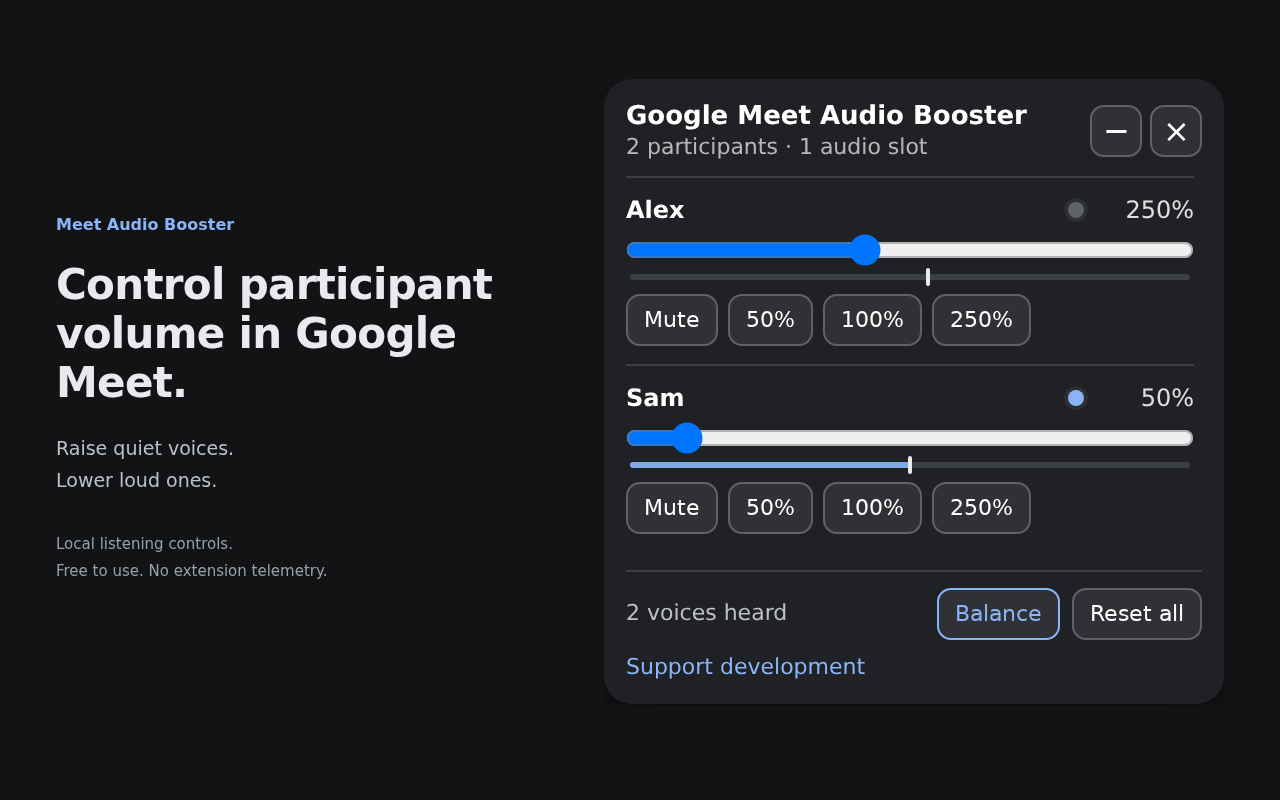
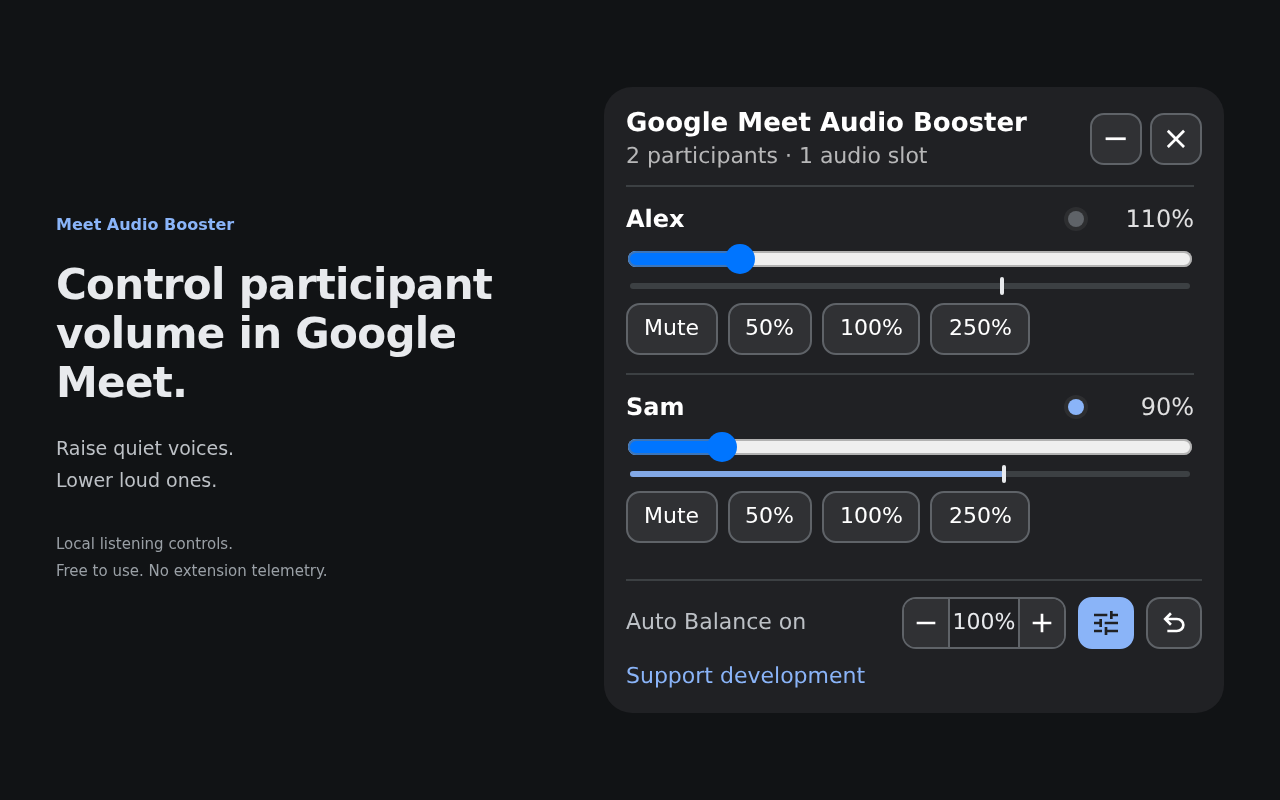
v2.5.1: multi-tab settings, accessible target control, screenshot (#34)
* fix: settings saved in another Meet tab are adopted instead of overwritten

Each tab saved its whole in-memory settings, so a later save in one tab undid
the Auto Balance choice, target, volumes or panel position saved in another.
Tabs now adopt the stored settings when another tab writes them (storage
event) and follow a changed target level. Version 2.5.1.

* fix: accessible target control, keep saved Auto when it never ran, new screenshot

- Target value is an aria-live region; − / + use aria-disabled at the limits
  so keyboard focus stays on them.
- A slider/preset/Reset only stores Auto Balance off if it was actually
  running in this tab (not when audio was unavailable and it never started).
- Tests for Reset persistence and the never-started case.
- README/store screenshot re-captured from the real panel code.

---------

diff --git a/src/ui/panel.js b/src/ui/panel.js
@@ -85,19 +85,24 @@ export function createPanelController(state, { participants, levels = () => null
       const target = state.settings.autoBalance.target
       const text = `${target}%`
       if (targetParts.value.textContent !== text) targetParts.value.textContent = text
-      targetParts.lower.disabled = target <= AUTO_TARGET_PERCENTS[0]
-      targetParts.raise.disabled = target >= AUTO_TARGET_PERCENTS.at(-1)
-      setStyle(targetParts.lower, 'opacity', targetParts.lower.disabled ? '0.4' : '1')
-      setStyle(targetParts.raise, 'opacity', targetParts.raise.disabled ? '0.4' : '1')
+      // aria-disabled (not disabled) keeps keyboard focus on the button at a limit.
+      for (const [button, atLimit] of [[targetParts.lower, target <= AUTO_TARGET_PERCENTS[0]], [targetParts.raise, target >= AUTO_TARGET_PERCENTS.at(-1)]]) {
+        button.setAttribute('aria-disabled', String(atLimit))
+        setStyle(button, 'opacity', atLimit ? '0.4' : '1')
+        setStyle(button, 'cursor', atLimit ? 'default' : 'pointer')
+      }
       setStyle(targetParts.group, 'opacity', auto.enabled ? '1' : '0.55')
     }
   }
   // persist=false when the page/controller shuts down: the user's choice stays.
   function stopAuto({ persist = true } = {}) {
+    // Only a user stopping an Auto Balance that was actually running stores
+    // off (e.g. not when audio was unavailable and it was never restored).
+    const wasRunning = auto.enabled
     auto.stop()
     state.autoBalanceEnabled = false
     state.autoBalanceReady = false
-    if (persist && state.settings.autoBalance.enabled) saveAuto({ enabled: false })
+    if (persist && wasRunning && state.settings.autoBalance.enabled) saveAuto({ enabled: false })
     updateBalanceButton()
     const status = document.getElementById(`${PANEL_ID}_status`)
     if (status) status.textContent = statusText(state)
@@ -117,6 +122,12 @@ export function createPanelController(state, { participants, levels = () => null
   // Restore the remembered on/off state when a meeting page starts.
   function restoreAuto() {
     if (state.settings.autoBalance.enabled && !auto.enabled) { startAuto(); updateLiveUi() }
+  }
+  // Settings changed in another tab: follow its target level. Its on/off
+  // choice applies to the next meeting; a running Auto here is not toggled.
+  function syncAutoSettings() {
+    auto.setTargetOffset(targetDbOf(state.settings.autoBalance.target))
+    updateLiveUi()
   }
   function stepTarget(direction) {
     const list = AUTO_TARGET_PERCENTS, index = list.indexOf(state.settings.autoBalance.target)
@@ -232,6 +243,7 @@ export function createPanelController(state, { participants, levels = () => null
     const value = document.createElement('div')
     value.dataset.role = 'auto-target-value'
     value.title = 'Auto Balance target level'
+    value.setAttribute('aria-live', 'polite')
     Object.assign(value.style, { minWidth: '34px', textAlign: 'center', fontSize: '11px', lineHeight: '24px', color: '#e8eaed', borderLeft: '1px solid #5f6368', borderRight: '1px solid #5f6368', fontVariantNumeric: 'tabular-nums' })
     group.append(lower, value, raise)
     targetParts = { group, lower, value, raise }
@@ -260,7 +272,7 @@ export function createPanelController(state, { participants, levels = () => null
   function show() { state.closed = false; render(); if (state.panel) state.panel.style.display = 'block' }
   function hide() { state.closed = true; if (state.panel) state.panel.style.display = 'none' }
   function toggle() { state.closed ? show() : hide() }
-  return { render, show, hide, toggle, updateLiveUi, autoTick, stopAuto, restoreAuto, invalidateAuto: (now, metadata) => auto.invalidate(now, metadata) }
+  return { render, show, hide, toggle, updateLiveUi, autoTick, stopAuto, restoreAuto, syncAutoSettings, invalidateAuto: (now, metadata) => auto.invalidate(now, metadata) }
 }
 
 function recoverPosition(panel) {

diff --git a/audio-booster.js b/audio-booster.js
@@ -51,6 +51,14 @@
       return false;
     }
   }
+  function watchSettings(settings, { storage = globalThis.localStorage, listen = (name, handler) => globalThis.addEventListener?.(name, handler), onChange = () => {
+  } } = {}) {
+    listen("storage", (event) => {
+      if (event?.key !== STORAGE_KEY || event.storageArea && event.storageArea !== storage) return;
+      Object.assign(settings, loadSettings(storage));
+      onChange(settings);
+    });
+  }
   function normalizeName(value) {
     return String(value || "").replace(/\s+/g, " ").trim().toLocaleLowerCase();
   }
@@ -3177,18 +3185,20 @@
         const target = state.settings.autoBalance.target;
         const text = `${target}%`;
         if (targetParts.value.textContent !== text) targetParts.value.textContent = text;
-        targetParts.lower.disabled = target <= AUTO_TARGET_PERCENTS[0];
-        targetParts.raise.disabled = target >= AUTO_TARGET_PERCENTS.at(-1);
-        setStyle(targetParts.lower, "opacity", targetParts.lower.disabled ? "0.4" : "1");
-        setStyle(targetParts.raise, "opacity", targetParts.raise.disabled ? "0.4" : "1");
+        for (const [button2, atLimit] of [[targetParts.lower, target <= AUTO_TARGET_PERCENTS[0]], [targetParts.raise, target >= AUTO_TARGET_PERCENTS.at(-1)]]) {
+          button2.setAttribute("aria-disabled", String(atLimit));
+          setStyle(button2, "opacity", atLimit ? "0.4" : "1");
+          setStyle(button2, "cursor", atLimit ? "default" : "pointer");
+        }
         setStyle(targetParts.group, "opacity", auto.enabled ? "1" : "0.55");
       }
     }
     function stopAuto({ persist = true } = {}) {
+      const wasRunning = auto.enabled;
       auto.stop();
       state.autoBalanceEnabled = false;
       state.autoBalanceReady = false;
-      if (persist && state.settings.autoBalance.enabled) saveAuto({ enabled: false });
+      if (persist && wasRunning && state.settings.autoBalance.enabled) saveAuto({ enabled: false });
       updateBalanceButton();
       const status = document.getElementById(`${PANEL_ID}_status`);
       if (status) status.textContent = statusText(state);
@@ -3215,6 +3225,10 @@
         startAuto();
         updateLiveUi();
       }
+    }
+    function syncAutoSettings() {
+      auto.setTargetOffset(targetDbOf(state.settings.autoBalance.target));
+      updateLiveUi();
     }
     function stepTarget(direction) {
       const list = AUTO_TARGET_PERCENTS, index = list.indexOf(state.settings.autoBalance.target);
@@ -3344,6 +3358,7 @@
       const value = document.createElement("div");
       value.dataset.role = "auto-target-value";
       value.title = "Auto Balance target level";
+      value.setAttribute("aria-live", "polite");
       Object.assign(value.style, { minWidth: "34px", textAlign: "center", fontSize: "11px", lineHeight: "24px", color: "#e8eaed", borderLeft: "1px solid #5f6368", borderRight: "1px solid #5f6368", fontVariantNumeric: "tabular-nums" });
       group.append(lower, value, raise);
       targetParts = { group, lower, value, raise };
@@ -3381,7 +3396,7 @@
     function toggle() {
       state.closed ? show() : hide();
     }
-    return { render, show, hide, toggle, updateLiveUi, autoTick, stopAuto, restoreAuto, invalidateAuto: (now, metadata) => auto.invalidate(now, metadata) };
+    return { render, show, hide, toggle, updateLiveUi, autoTick, stopAuto, restoreAuto, syncAutoSettings, invalidateAuto: (now, metadata) => auto.invalidate(now, metadata) };
   }
   function recoverPosition(panel) {
     const rect = panel.getBoundingClientRect();
@@ -3552,6 +3567,7 @@
         saveSettings(globalThis.localStorage, state.settings);
       }
     });
+    watchSettings(state.settings, { onChange: () => panel.syncAutoSettings() });
     globalThis.__meetingAudioBooster = state;
     globalThis.__meetingAudioBoosterShow = panel.show;
     globalThis.__meetingAudioBoosterHide = panel.hide;

diff --git a/dist/audio-booster.js b/dist/audio-booster.js
@@ -51,6 +51,14 @@
       return false;
     }
   }
+  function watchSettings(settings, { storage = globalThis.localStorage, listen = (name, handler) => globalThis.addEventListener?.(name, handler), onChange = () => {
+  } } = {}) {
+    listen("storage", (event) => {
+      if (event?.key !== STORAGE_KEY || event.storageArea && event.storageArea !== storage) return;
+      Object.assign(settings, loadSettings(storage));
+      onChange(settings);
+    });
+  }
   function normalizeName(value) {
     return String(value || "").replace(/\s+/g, " ").trim().toLocaleLowerCase();
   }
@@ -3177,18 +3185,20 @@
         const target = state.settings.autoBalance.target;
         const text = `${target}%`;
         if (targetParts.value.textContent !== text) targetParts.value.textContent = text;
-        targetParts.lower.disabled = target <= AUTO_TARGET_PERCENTS[0];
-        targetParts.raise.disabled = target >= AUTO_TARGET_PERCENTS.at(-1);
-        setStyle(targetParts.lower, "opacity", targetParts.lower.disabled ? "0.4" : "1");
-        setStyle(targetParts.raise, "opacity", targetParts.raise.disabled ? "0.4" : "1");
+        for (const [button2, atLimit] of [[targetParts.lower, target <= AUTO_TARGET_PERCENTS[0]], [targetParts.raise, target >= AUTO_TARGET_PERCENTS.at(-1)]]) {
+          button2.setAttribute("aria-disabled", String(atLimit));
+          setStyle(button2, "opacity", atLimit ? "0.4" : "1");
+          setStyle(button2, "cursor", atLimit ? "default" : "pointer");
+        }
         setStyle(targetParts.group, "opacity", auto.enabled ? "1" : "0.55");
       }
     }
     function stopAuto({ persist = true } = {}) {
+      const wasRunning = auto.enabled;
       auto.stop();
       state.autoBalanceEnabled = false;
       state.autoBalanceReady = false;
-      if (persist && state.settings.autoBalance.enabled) saveAuto({ enabled: false });
+      if (persist && wasRunning && state.settings.autoBalance.enabled) saveAuto({ enabled: false });
       updateBalanceButton();
       const status = document.getElementById(`${PANEL_ID}_status`);
       if (status) status.textContent = statusText(state);
@@ -3215,6 +3225,10 @@
         startAuto();
         updateLiveUi();
       }
+    }
+    function syncAutoSettings() {
+      auto.setTargetOffset(targetDbOf(state.settings.autoBalance.target));
+      updateLiveUi();
     }
     function stepTarget(direction) {
       const list = AUTO_TARGET_PERCENTS, index = list.indexOf(state.settings.autoBalance.target);
@@ -3344,6 +3358,7 @@
       const value = document.createElement("div");
       value.dataset.role = "auto-target-value";
       value.title = "Auto Balance target level";
+      value.setAttribute("aria-live", "polite");
       Object.assign(value.style, { minWidth: "34px", textAlign: "center", fontSize: "11px", lineHeight: "24px", color: "#e8eaed", borderLeft: "1px solid #5f6368", borderRight: "1px solid #5f6368", fontVariantNumeric: "tabular-nums" });
       group.append(lower, value, raise);
       targetParts = { group, lower, value, raise };
@@ -3381,7 +3396,7 @@
     function toggle() {
       state.closed ? show() : hide();
     }
-    return { render, show, hide, toggle, updateLiveUi, autoTick, stopAuto, restoreAuto, invalidateAuto: (now, metadata) => auto.invalidate(now, metadata) };
+    return { render, show, hide, toggle, updateLiveUi, autoTick, stopAuto, restoreAuto, syncAutoSettings, invalidateAuto: (now, metadata) => auto.invalidate(now, metadata) };
   }
   function recoverPosition(panel) {
     const rect = panel.getBoundingClientRect();
@@ -3552,6 +3567,7 @@
         saveSettings(globalThis.localStorage, state.settings);
       }
     });
+    watchSettings(state.settings, { onChange: () => panel.syncAutoSettings() });
     globalThis.__meetingAudioBooster = state;
     globalThis.__meetingAudioBoosterShow = panel.show;
     globalThis.__meetingAudioBoosterHide = panel.hide;

diff --git a/tests/panel.test.js b/tests/panel.test.js
@@ -574,13 +574,42 @@ test('target buttons step 70%..140% in 10% steps, are remembered, and never stop
   f.parts().balance.click()
   for (let i = 0; i < 6; i++) f.parts().raise.click()
   assert.equal(f.parts().target.textContent, '140%')
-  assert.equal(f.parts().raise.disabled, true)
+  assert.equal(f.parts().raise.getAttribute('aria-disabled'), 'true')
+  assert.ok(!f.parts().raise.disabled, 'stays focusable at the limit')
+  f.parts().raise.click(); assert.equal(f.parts().target.textContent, '140%', 'no step past the limit')
+  assert.equal(f.parts().target.getAttribute('aria-live'), 'polite')
   assert.deepEqual(saved.at(-1), { enabled: true, target: 140 })
   for (let i = 0; i < 10; i++) f.parts().lower.click()
   assert.equal(f.parts().target.textContent, '70%')
-  assert.equal(f.parts().lower.disabled, true)
-  assert.equal(f.parts().raise.disabled, false)
+  assert.equal(f.parts().lower.getAttribute('aria-disabled'), 'true')
+  assert.equal(f.parts().raise.getAttribute('aria-disabled'), 'false')
   assert.equal(f.state.autoBalanceEnabled, true, 'changing the target keeps Auto Balance on')
   assert.deepEqual(f.gains, [], 'changing the target never moves a slider by itself')
   assert.equal(f.state.settings.autoBalance.target, 70)
+})
+
+test('a target changed in another tab is followed here without toggling Auto or moving sliders', t => {
+  const f = fixture(t)
+  f.parts().balance.click()
+  f.state.settings.autoBalance = { enabled: false, target: 130 }
+  f.controller.syncAutoSettings()
+  assert.equal(f.parts().target.textContent, '130%')
+  assert.equal(f.state.autoBalanceEnabled, true, 'a running Auto here is not switched off by another tab')
+  assert.deepEqual(f.gains, [])
+})
+
+test('Reset stores Auto Balance off; a slider in a tab where Auto never ran (no audio) keeps the saved on', t => {
+  const f = fixture(t)
+  const saved = []
+  const controller = createPanelController(f.state, { participants: () => f.people, onGain: (p, v) => { p.value = v }, onSave() {}, onAutoSettings: s => saved.push({ ...s }) })
+  controller.render()
+  f.parts().balance.click()
+  f.parts().reset.click()
+  assert.deepEqual(saved.at(-1), { enabled: false, target: 100 }, 'Reset of a running Auto stores off')
+  // Saved on, but this tab never restored it (audio unavailable).
+  f.state.settings.autoBalance = { enabled: true, target: 100 }; saved.length = 0
+  const slider = f.state.panel.querySelector('[data-role="slider"]')
+  slider.value = '2'; slider.oninput()
+  assert.deepEqual(saved, [], 'a never-started Auto is not saved as off')
+  assert.equal(f.state.settings.autoBalance.enabled, true)
 })

diff --git a/tests/storage.test.js b/tests/storage.test.js
@@ -1,7 +1,7 @@
 import test from 'node:test'
 import assert from 'node:assert/strict'
 import { STORAGE_KEY, LEGACY_STORAGE_KEYS } from '../src/shared/constants.js'
-import { loadSettings, saveSettings, participantStorageKeys, setParticipantGain, getParticipantGain } from '../src/storage.js'
+import { loadSettings, saveSettings, participantStorageKeys, setParticipantGain, getParticipantGain, watchSettings } from '../src/storage.js'
 import { createState } from '../src/state.js'
 
 const AUTO_OFF = { enabled: false, target: 100 }
@@ -103,4 +103,24 @@ test('Auto Balance on/off and target level are remembered; bad values fall back 
     const s = memoryStorage({ [STORAGE_KEY]: JSON.stringify({ gains: {}, autoBalance }) })
     assert.deepEqual(loadSettings(s).autoBalance, expected, JSON.stringify(autoBalance))
   }
+})
+
+test('a save from another tab is adopted, so this tab never writes back its older copy', () => {
+  const storage = memoryStorage()
+  const settings = loadSettings(storage)
+  let handler = null, changes = 0
+  watchSettings(settings, { storage, listen: (name, h) => { assert.equal(name, 'storage'); handler = h }, onChange: s => { assert.equal(s, settings); changes++ } })
+  // Tab B turns Auto on at 120% and sets a volume.
+  const other = loadSettings(storage)
+  other.autoBalance = { enabled: true, target: 120 }; setParticipantGain(other, { platform: 'google-meet', name: 'Bob' }, 2)
+  saveSettings(storage, other)
+  handler({ key: 'unrelated' }); assert.equal(changes, 0)
+  handler({ key: STORAGE_KEY, storageArea: storage })
+  assert.equal(changes, 1)
+  // This tab now saves its own change (panel position) without undoing tab B.
+  settings.position = { left: 5, top: 6 }; saveSettings(storage, settings)
+  const stored = loadSettings(storage)
+  assert.deepEqual(stored.autoBalance, { enabled: true, target: 120 })
+  assert.equal(getParticipantGain(stored, { platform: 'google-meet', name: 'Bob' }), 2)
+  assert.deepEqual(stored.position, { left: 5, top: 6 })
 })

diff --git a/src/main.js b/src/main.js
@@ -1,5 +1,5 @@
 import { createState, visibleParticipants } from './state.js'
-import { saveSettings, setParticipantGain } from './storage.js'
+import { saveSettings, setParticipantGain, watchSettings } from './storage.js'
 import { detectPlatform } from './platforms/google-meet/platform.js'
 import { createGoogleMeetController } from './platforms/google-meet/index.js'
 import { installRemoteMediaOwnership } from './platforms/google-meet/media-ownership.js'
@@ -53,6 +53,7 @@ if (detectPlatform() === 'google-meet' && !globalThis.__meetingAudioBoosterInsta
     onSave: position => { state.settings.position = position; saveSettings(globalThis.localStorage, state.settings) }
   })
 
+  watchSettings(state.settings, { onChange: () => panel.syncAutoSettings() })
   globalThis.__meetingAudioBooster = state
   globalThis.__meetingAudioBoosterShow = panel.show
   globalThis.__meetingAudioBoosterHide = panel.hide

diff --git a/src/storage.js b/src/storage.js
@@ -48,6 +48,16 @@ export function saveSettings(storage = globalThis.localStorage, settings) {
   }
 }
 
+// Another Meet tab saved settings: adopt them, so this tab's next save does
+// not write back its older copy (whole-object saves). Same object identity.
+export function watchSettings(settings, { storage = globalThis.localStorage, listen = (name, handler) => globalThis.addEventListener?.(name, handler), onChange = () => {} } = {}) {
+  listen('storage', event => {
+    if (event?.key !== STORAGE_KEY || event.storageArea && event.storageArea !== storage) return
+    Object.assign(settings, loadSettings(storage))
+    onChange(settings)
+  })
+}
+
 export function normalizeName(value) {
   return String(value || '').replace(/\s+/g, ' ').trim().toLocaleLowerCase()
 }

diff --git a/README.md b/README.md
@@ -10,7 +10,7 @@ Per-participant playback volume controls for Google Meet. Preferences stay in br
 2. Join a Google Meet call and use each participant's slider or preset to adjust what **you** hear. Start at 100% and raise volume gradually.
 3. Use the toolbar button to reopen a hidden panel; use the Reset button (↶) to return the listed participants to 100%.
 
-![Meet Audio Booster participant volume controls, level estimates and Balance](docs/assets/production-panel.png)
+![Meet Audio Booster participant volume controls, level estimates, Auto Balance and its target level](docs/assets/production-panel.png)
 
 ## Troubleshooting and support
 
